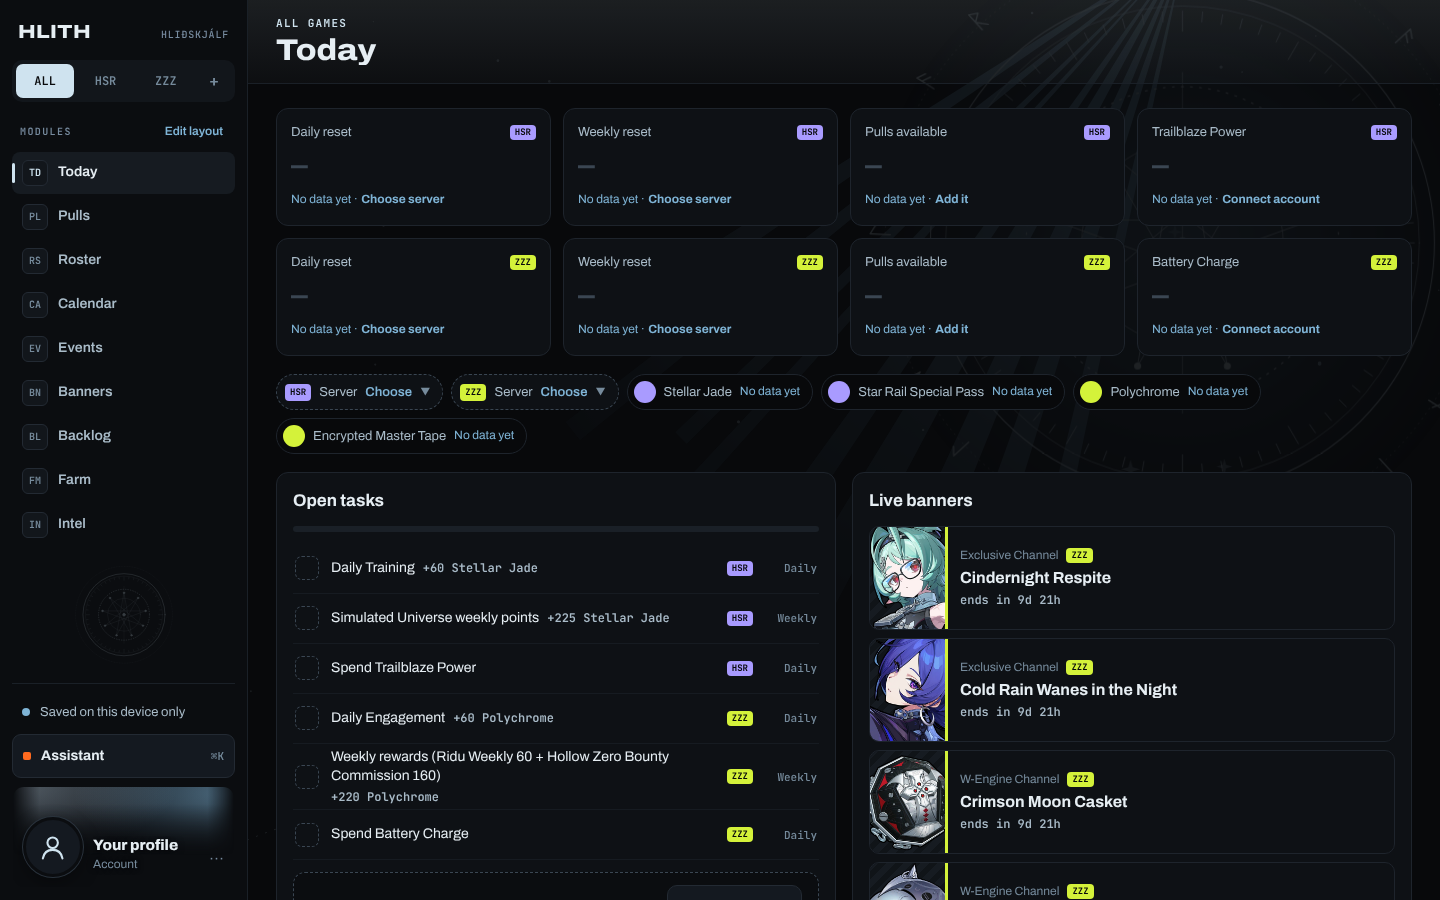
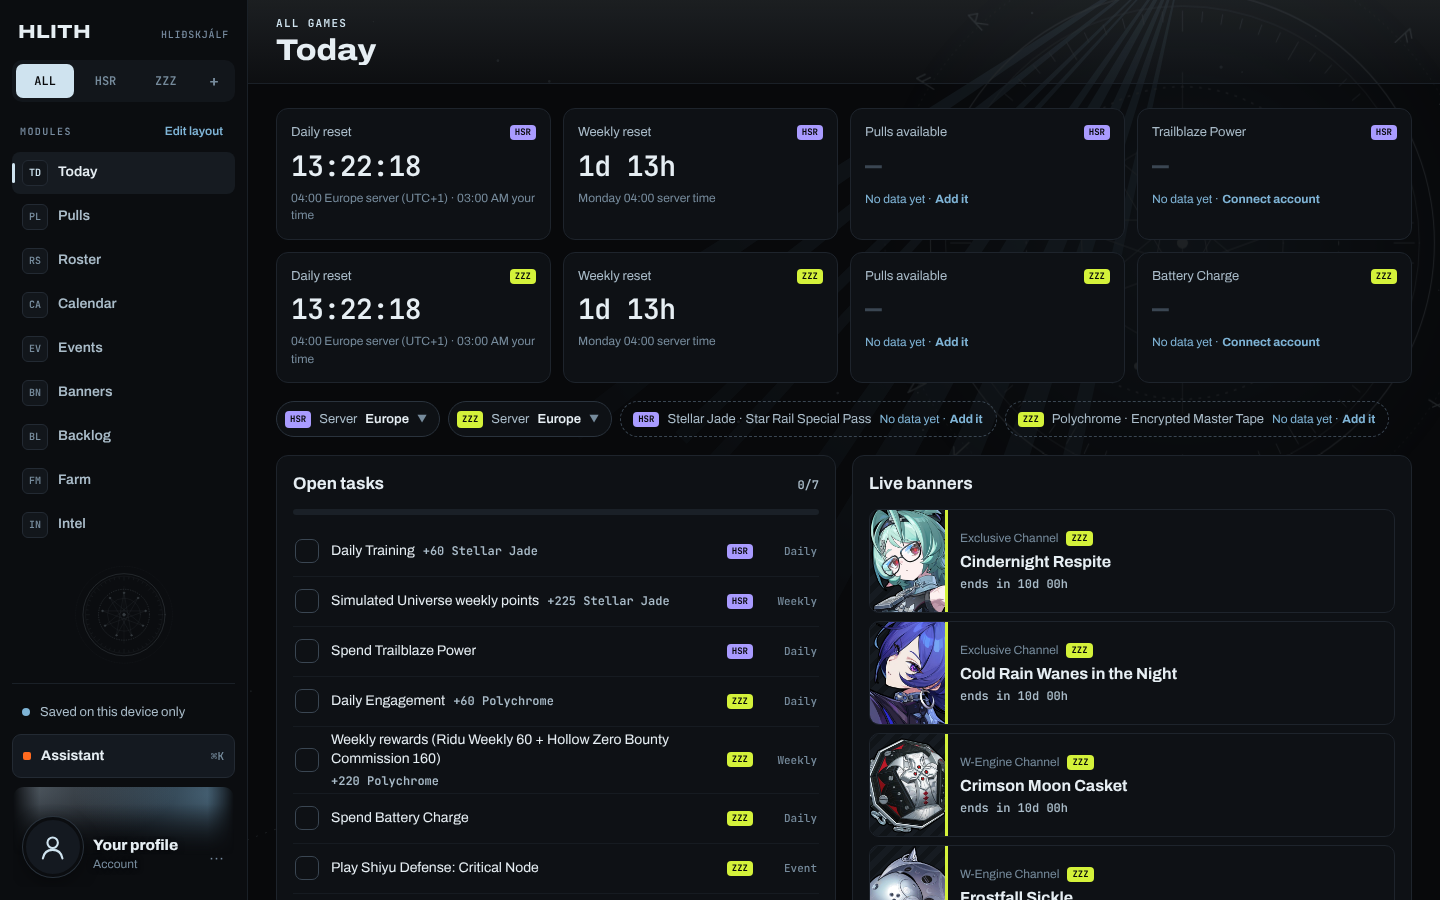
README for visitors (T36) (#82)
* README screenshots refreshed: Banners board, Teams, three themes (WIP, README text next)

Claude-Session: https://claude.ai/code/session_01JhX321c2CZBUjDK5Z6yXKX

* README for visitors (T36): hero shot of the Banners board, badges, highlights, screenshots, themes

Same honest content, tighter: a pitch, six highlights, a gallery (Today, Teams,
Pulls, Calendar), three themes and the phone view, the three promises, how it is
built (including the five chats) and how to run it. Fresh screenshots from a
local build with example data only.

Claude-Session: https://claude.ai/code/session_01JhX321c2CZBUjDK5Z6yXKX

---------

diff --git a/README.md b/README.md
@@ -2,80 +2,84 @@
 
 # HLIÐSKJÁLF
 
-**One seat, every world.** A command centre for your gacha games.
+**One seat, every world.**<br>
+A command centre for your gacha games: what to do tonight, how many pulls you'll have, and who fits your teams.
 
-[**Open HLITH →**](https://project-hlith.hliskjlf.workers.dev)
+[![Open the app](https://img.shields.io/badge/Open_HLITH-live-cfe3ef?style=for-the-badge&labelColor=08090b)](https://project-hlith.hliskjlf.workers.dev)
+
+![React 19](https://img.shields.io/badge/React_19-20232a?logo=react&logoColor=61dafb)
+![TypeScript](https://img.shields.io/badge/TypeScript_strict-3178c6?logo=typescript&logoColor=white)
+![Vite](https://img.shields.io/badge/Vite-646cff?logo=vite&logoColor=white)
+![Supabase](https://img.shields.io/badge/Supabase-1c1c1c?logo=supabase&logoColor=3ecf8e)
+![Cloudflare Workers](https://img.shields.io/badge/Cloudflare_Workers-f38020?logo=cloudflare&logoColor=white)
+![Tested with Vitest and Playwright](https://img.shields.io/badge/tested-Vitest_·_Playwright-6e9f18)
 
 Honkai: Star Rail · Zenless Zone Zero · any other game as a plug-in
+
+<img src="docs/screenshots/banners.png" alt="The Banners board: one timeline for every game, live banners as big cards, what's next and later" width="920">
 
 </div>
 
 ---
 
-Odin sat on Hliðskjálf and saw all nine worlds at once. HLITH does the same for your
-gacha accounts: every banner, every event, every reset, every pull you have saved and
-every character you own, in one place, on your phone and your PC.
+Odin sat on Hliðskjálf and saw all nine worlds at once. **PROJECT-HLITH** does the same for
+your gacha accounts: every banner, event, reset, saved pull and character you own, in one
+place, on your phone and your PC.
 
-No more five tabs, three wikis and a spreadsheet. Open HLITH and it tells you **what to
-do tonight**, **how many pulls you'll have** when the banner you want arrives, and
-**what's still left to earn**.
+No more five tabs, three wikis and a spreadsheet. Open it and it tells you **what to do
+tonight**, **how many pulls you'll have** when the banner you want arrives, and **what's still
+left to earn**.
 
-<p align="center">
-  <img src="docs/screenshots/today.png" alt="Today: tonight's run, resets, live banners and what's coming up" width="880">
-</p>
-
-## What it does
+## Highlights
 
 | | |
 |---|---|
-| 🌅 **Today** | Your evening in order: dailies and weeklies that reset at *your server's* reset, events about to end, live stamina from HoYoLAB, live banners, and a wishlist of banners for characters you want. Tick things off (HoYoLAB ticks what it can prove, like stamina spent); ticks reset by themselves. |
-| 🎟 **Pulls** | **Planner** (pulls by each banner, chance to win, worst case) · **Calculator** (every source of currency until the version ends) · **Bank log** (what you have, earned, bought, spent) · **History** (import your real pulls → pity, 50/50 state and a Luck report). |
-| 🗓 **Calendar** | Banners, events, endgame resets and your own plans on one timeline, with a link to put it in your phone's calendar. |
-| 🎪 **Events** | What's running, what you've done or skipped, login days claimed, and how much currency is still on the table. |
-| 📚 **Backlog** | Permanent content that still pays out: tap where you are in the story, tick side quests, count up modes and achievements. Switch a category on and it counts toward your pulls. |
-| 🎴 **Banners** | Live and upcoming banners, leaks (clearly marked, and hideable), and how each one fits your account. |
-| 🧑🤝🧑 **Roster** | Every character, newest first: owned, wanted, copies, Enhanced / Agent Potential, and the build you saved (level, weapon, gear, skills). Kit check reads every kit; teams get a synergy % that explains itself, with "who fits" and "if you pull". Your own teams, recommended teams, share a team with a link, and how to build each character. |
-| 🌾 **Farm** | Pick who you're building; see the materials, the stamina and the days it takes. |
-| 🔭 **Intel** | New content no other screen covers yet, always marked unverified. |
-| ✨ **Assistant** | Ask in plain words. It can propose plans and changes, and you approve or undo each one. |
+| 🌅 **Today** | Your evening in order: dailies and weeklies on *your server's* reset, events about to end, live stamina from HoYoLAB, live banners and your wishlist. HoYoLAB ticks what it can prove. |
+| 🎴 **Banners** | One timeline for every game with a TODAY line; live, next and later banners as big cards with countdowns, how each fits your account, and leaks clearly marked (or hidden). |
+| 🧑🤝🧑 **Roster & Teams** | Owned, wanted, copies and saved builds. Every kit is read, so a team's synergy % explains itself in plain words, with who fits, what to pull, and team lists you can edit. |
+| 🎟 **Pulls** | Planner (chance to win, worst case), Calculator (every source until the version ends), Bank log, and History import with pity and a Luck report. |
+| 🗓 **Calendar · Events · Backlog** | Everything on one timeline, what's left in each event, and permanent content that still pays out, all counted toward your pulls. |
+| ✨ **Assistant** | Ask in plain words. It proposes plans and changes; you approve or undo each one. |
 
+<p align="center">
+  <img src="docs/screenshots/today.png" alt="Today: resets, open tasks and live banners for both games" width="49%">
+  <img src="docs/screenshots/teams.png" alt="Roster → Teams: recommended teams with a synergy % that explains itself" width="49%">
+</p>
 <p align="center">
   <img src="docs/screenshots/pulls.png" alt="Pulls planner: pulls by each banner, chance to win and worst case" width="49%">
-  <img src="docs/screenshots/backlog.png" alt="Backlog: the story as a checklist, rewards still on the table" width="49%">
+  <img src="docs/screenshots/calendar.png" alt="Calendar: banners, events and resets on one timeline" width="49%">
+</p>
+
+### Make it yours
+
+Fourteen themes, each with its own art, and every screen works on a phone.
+
+<p align="center">
+  <img src="docs/screenshots/theme-midnight-sakura.png" alt="Midnight Sakura theme" width="32%">
+  <img src="docs/screenshots/theme-jade-whisper.png" alt="Jade Whisper theme" width="32%">
+  <img src="docs/screenshots/theme-crimson-haze.png" alt="Crimson Haze theme" width="32%">
 </p>
 <p align="center">
-  <img src="docs/screenshots/calendar.png" alt="Calendar: banners, events and resets on one timeline" width="66%">
-  <img src="docs/screenshots/phone.png" alt="Today on a phone" width="24%">
+  <img src="docs/screenshots/phone.png" alt="Today on a phone" width="22%">
+  <img src="docs/screenshots/backlog.png" alt="Backlog: the story as a checklist, rewards still on the table" width="66%">
 </p>
 
-**And around it:** sign in with Google, Discord or an email link · everything syncs
-between your devices · HoYoLAB link for live stamina, automatic daily check-in and code
-redemption, for several accounts at once · themes with their own art · a profile with
-picture, banner, bio and showcase · backups you can download · an evening message and
-a calendar feed · an owner console for the lists, findings and announcements.
-
-## Yours to change
-
-Anything you personalise, you control. Every list has an **Edit** button: change any
-entry, add your own events, banners and backlog items, or hide what you don't need.
-Nothing is ever deleted behind your back; hidden things come back with one tap, and
-changes can be undone.
-
-While the game lists are still being filled, screens show **examples** with an
-`EXAMPLE` badge, so you can see how everything works. They're never counted in your
-numbers. Change an example and it becomes yours, or switch all examples off in
-*Account → Example data*.
+**And around it:** sign in with Google, Discord or an email link · sync between devices ·
+HoYoLAB link for live stamina, daily check-in and code redemption · pick your Trailblazer ·
+a profile with picture, banner and showcase · backups you can download · an evening
+message and a calendar feed · every list editable, with your own events, banners and
+backlog items.
 
 ## Three promises
 
-1. **Honest numbers.** HLITH never shows a number it can't back up. If it doesn't know,
-   it says **No data yet** and tells you how to fill it in.
-2. **Your data is never wiped.** Updates to the built-in lists never touch your
-   progress. Sync keeps the newer copy and stores the other one, never throws it away.
-3. **Every game is a plug-in.** Adding a game means adding one folder. The app itself
-   never changes for it, and a test fails the build if it ever tries to.
+1. **Honest numbers.** It never shows a number it can't back up. If it doesn't know, it
+   says **No data yet** and tells you how to fill it in.
+2. **Your data is never wiped.** Updates to the built-in lists never touch your progress.
+   Sync keeps the newer copy and stores the other one.
+3. **Every game is a plug-in.** Adding a game means adding one folder. A test fails the
+   build if the app ever reaches into a game's folder.
 
-## How it fits together
+## How it's built
 
 ```mermaid
 flowchart LR
@@ -90,41 +94,40 @@ flowchart LR
   routine[Research routine<br>finds leaks & new info] -->|findings to approve| supa
 ```
 
-- **The app** is React + TypeScript, served by Cloudflare. Every merge to `main` goes
-  live within minutes.
-- **Supabase** holds accounts and data (each person sees only their own rows), and
-  runs the server functions: HoYoLAB, history import, backups, the Assistant.
-- **The scheduler** wakes every 15 minutes and runs what's due: the nightly backup,
-  the HoYoLAB daily check-in and code redemption.
+- **The app** is React + TypeScript, served by Cloudflare. Every merge to `main` goes live
+  within minutes.
+- **Supabase** holds accounts and data (each person sees only their own rows) and runs the
+  server functions: HoYoLAB, history import, backups, the Assistant.
+- **The scheduler** wakes every 15 minutes for the nightly backup, the HoYoLAB check-in
+  and code redemption.
 - **A research routine** looks for new events, banners and leaks and hands them to the
   owner to approve before anything shows up.
 
-## Who builds what
+### Built by five AI chats
 
-HLITH is built by five chats that talk to each other directly and agree together
-before anything goes live ([how](docs/RELEASES.md)). The owner talks to MANAGER;
-MANAGER sends each job where it belongs.
+The project is written by five Claude chats that talk to each other directly and agree
+before anything goes live ([how](docs/RELEASES.md)). The owner talks to MANAGER, which
+sends each job where it belongs.
 
 | Workstream | Builds |
 |---|---|
-| **FRAME** | The whole interface and base: every screen, the shell, sync, accounts, scheduler. |
+| **FRAME** | The interface and base: every screen, the shell, sync, accounts. |
 | **SCHEDULER** | The real game data: versions, banners, events, endgame, backlog ([brief](docs/briefs/SCHEDULER.md)). |
 | **LOGIC-CORE** | The deep logic: kits, kit check, team scores, builds, materials ([brief](docs/briefs/LOGIC-CORE.md)). |
-| **MANAGER** | The owner's front desk: sends every request to the right workstream and reports back ([brief](docs/briefs/MANAGER.md)). |
+| **MANAGER** | The owner's front desk; reviews and merges every change ([brief](docs/briefs/MANAGER.md)). |
 | **ERROR-FIX** | Bug fixes anywhere, when another workstream asks ([brief](docs/briefs/ERROR-FIX.md)). |
 
-## For developers
+## Run it yourself
 
 ```bash
 npm install
 npm run dev        # the app on your machine ("this device only" mode, no sign-in needed)
-npm run check      # lint + typecheck + unit tests + build: run before every commit
+npm run check      # lint + typecheck + unit tests + build
 npm run e2e        # browser tests at PC and phone sizes
-npm run roadmap    # refresh the self-ticking roadmap
 ```
 
 **Add a game:** copy `src/games/_template/`, fill in the contract (names, currencies,
-servers, reset times, banner rules), register it in `src/games/index.ts`. Every screen
+servers, reset times, banner rules) and register it in `src/games/index.ts`. Every screen
 picks it up.
 
 ```
@@ -137,13 +140,12 @@ tests/       architecture, server and browser tests
 docs/        plan, roadmap, progress, design files, workstream briefs
 ```
 
-React 19 · Vite · TypeScript (strict) · CSS Modules · Supabase · Cloudflare Workers ·
-Vitest · Playwright. Game data from [nanoka.cc](https://nanoka.cc), used with its owner's
-permission.
+Game data from [nanoka.cc](https://nanoka.cc), used with its owner's permission. A fan
+project, not affiliated with HoYoverse; game names and art belong to their owners.
 
 ## Docs
 
-Everything is sorted in **[docs/README.md](docs/README.md)**: what HLITH must do
+Everything is sorted in **[docs/README.md](docs/README.md)**: what it must do
 ([FEATURES](docs/FEATURES.md), [DESIGN](docs/DESIGN.md)), where it stands
 ([PROGRESS](docs/PROGRESS.md), [ROADMAP](docs/ROADMAP.md)), who builds what
 ([WORKSTREAMS](docs/WORKSTREAMS.md), [RELEASES](docs/RELEASES.md)) and how it runs
